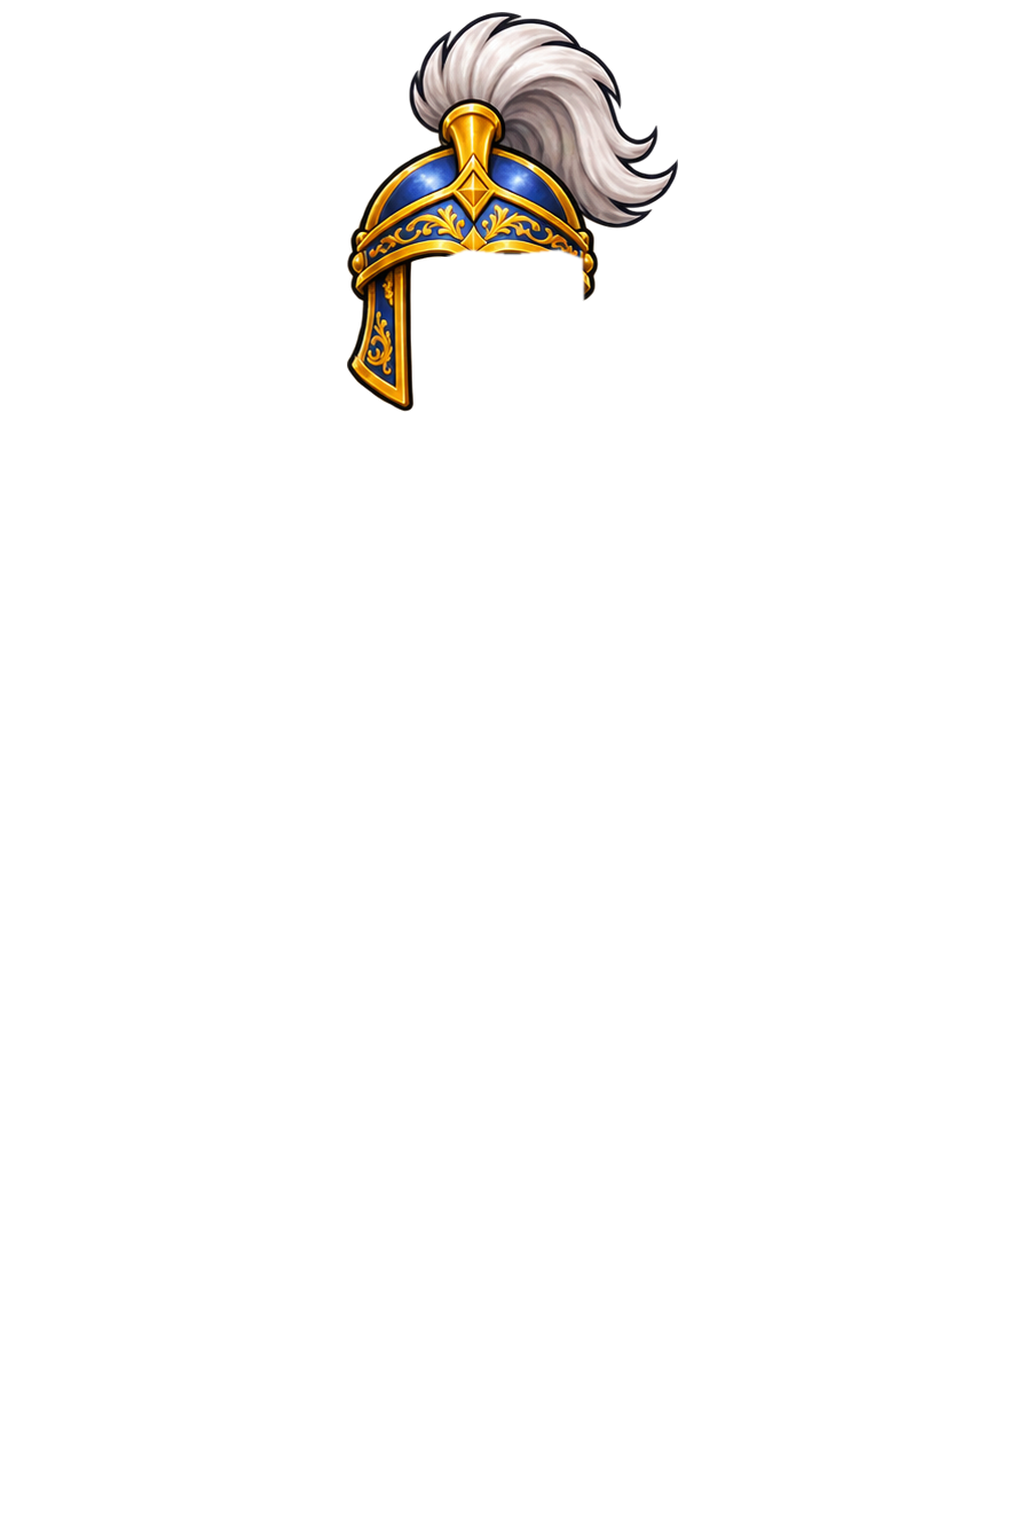
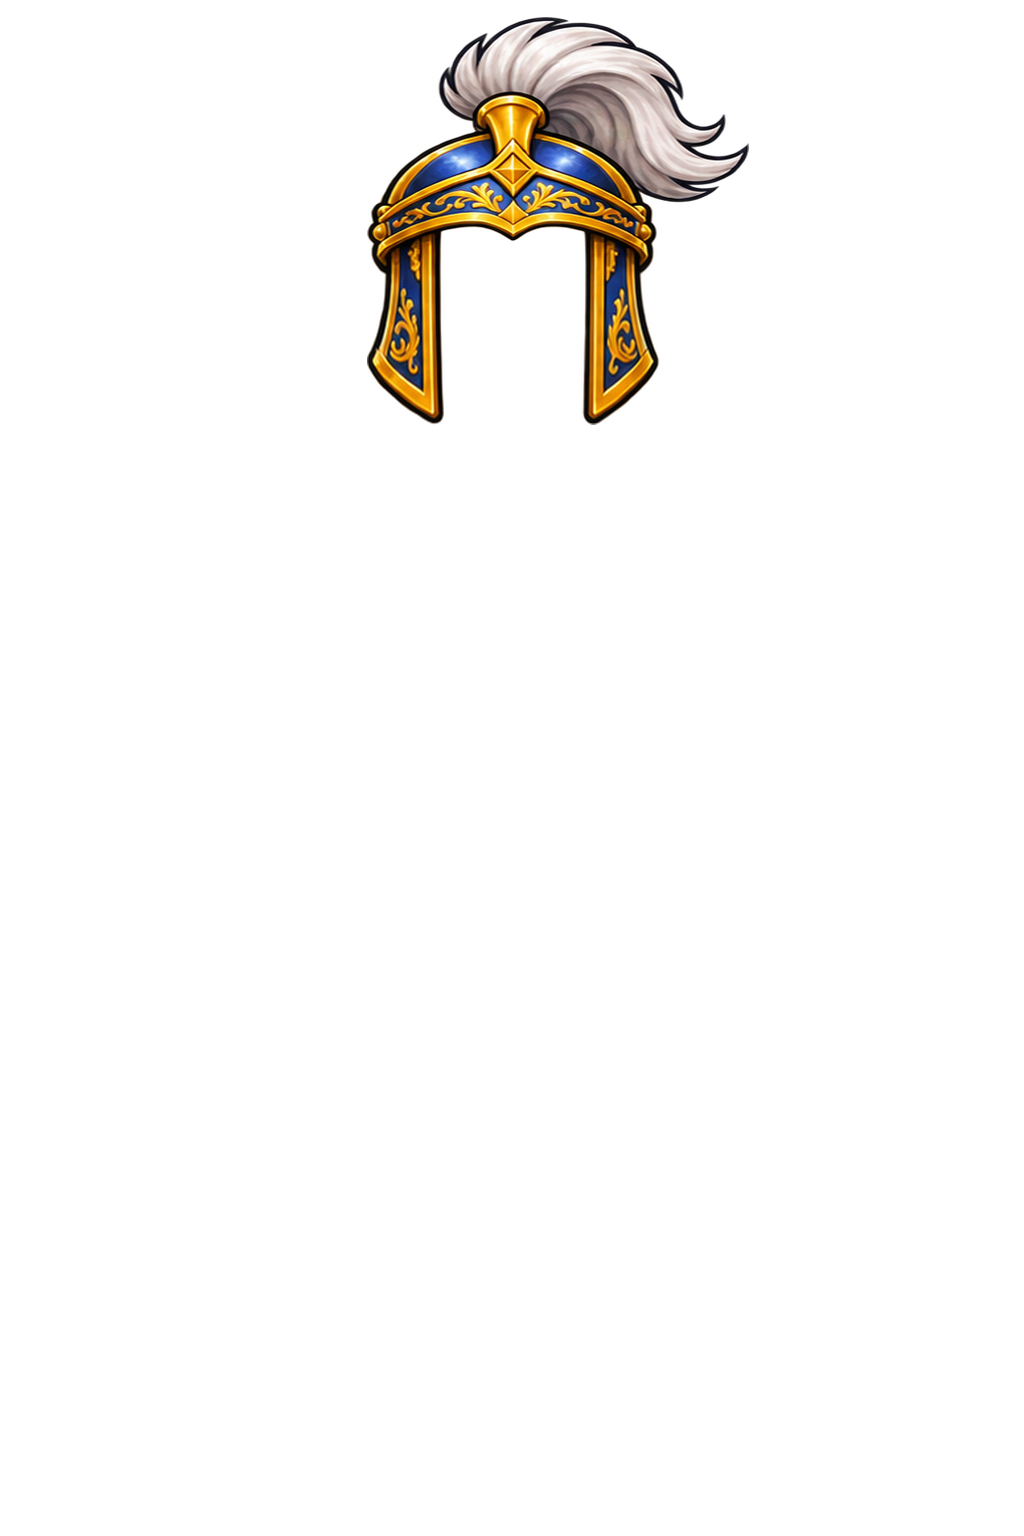
Publish arena posters and align asymmetric knight helmets

Changed region(s): [[0.3438, 0.0, 0.75, 0.2812]]

diff --git a/server/worker.js b/server/worker.js
@@ -3067,22 +3067,25 @@ async function arnTick(env){
     if(changed)await kvSet(env,arnKey(),A);
   }finally{arnBusy=0}
 }
-function arnPosts(){return [
-  {id:"arena-announce-20261126",on:true,at:Date.UTC(2026,10,26,17,15),window:2*36e5,photo:"event-assets/arena-2026-11-26.png",
-   btn:"⚔ Войти в Арену",url:PAGE+"?tower=1&arena=1",
-   chan:"⚔ СЕГОДНЯ В 20:30 — АРЕНА НА 30 МЕСТ!\n\nВ Башне открывается вечерний турнир. Первые 30, кто нажмёт «Участвовать», попадут в сетку.\n\nЕсли 30 не наберётся — старт в 20:45 с теми, кто есть. Турнир состоится в любом случае, даже если участников мало.\n\nКаждый бой — 3 раунда. Перед боем выбери стойку (Натиск / Стена / Обман) и ответь на загадку: правильный ответ даёт +25% к силе, выигранная стойка — ещё +15%. Сила карт важна, но хитрость решает.\n\n🥇 200 ⭐ + VIP 7 дней + 3 ключа + титул «Чемпион Арены»\n🥈 100 ⭐ + VIP 3 дня + 2 ключа\n🥉 50 ⭐ + 1 ключ\n🎴 4 место — ключ, 5–8 — 25 прокруток, все — 15 прокруток и осколки\n\n⏰ Набор: 20:30–20:45. Заходи в игру → Башня → Арена!",
-   dm:"⚔ Сегодня в 20:30 — АРЕНА на 30 мест!\n\nПервые 30, кто нажмёт «Участвовать», попадут в турнир. Если 30 не наберётся — старт в 20:45 с теми, кто есть. Турнир состоится в любом случае.\n\nВ каждом бою: стойка + загадка + 3 раунда. Правильный ответ даёт +25% к силе, стойка — ещё +15%.\n\n🥇 200 ⭐ + VIP 7 дней + 3 ключа\n🥈 100 ⭐ + VIP 3 дня + 2 ключа\n🥉 50 ⭐ + 1 ключ\n🎴 4 место — ключ, 5–8 — 25 прокруток, всем — 15 прокруток и осколки.\n\nОткрой игру → Башня → Арена. Набор стартует в 20:30!"},
-  {id:"arena-open-20261126",on:true,at:Date.UTC(2026,10,26,17,30),window:30*60e3,photo:"event-assets/arena-2026-11-26.png",
-   btn:"⚔ Участвовать",url:PAGE+"?tower=1&arena=1",
-   chan:"⚔ АРЕНА ОТКРЫТА! ПЕРВЫЕ 30 МЕСТ!\n\nЗайди в игру → Башня → Арена и жми «Участвовать». Набор закроется в 20:45 или когда закончатся места.\n\nЕсли 30 не наберётся — старт в 20:45 с теми, кто есть. Турнир состоится в любом случае.\n\nВ бою: стойка + загадка + 3 раунда. Побеждает не только сильнейший, но и самый хитрый.\n\n🥇 200 ⭐ + VIP 7 дней + 3 ключа\n🥈 100 ⭐ + VIP 3 дня + 2 ключа\n🥉 50 ⭐ + 1 ключ\n🎴 4 место — ключ, 5–8 — 25 прокруток, всем — 15 прокруток и осколки."}
-]}
+function arnPosts(){
+  const url="https://t.me/VoinyEpohBot?startapp=arena",btn="⚔ Участвовать";
+  const photo="event-assets/arena-2026-11-27.png";
+  return [
+    {id:"arena-20261127-1100",at:Date.UTC(2026,10,27,8),window:45*60e3,photo,btn,url,
+     chan:"⚔ ЗАПИСЬ НА АРЕНУ ОТКРЫТА\n\nВечером в Башне — турнир на 30 мест. Запишись сейчас, чтобы к началу боя состав уже был готов.\n\nНажми «Участвовать», выбери 3 карты или доверь подбор игре, затем подтверди состав. Порядок карт определяет раунды. До закрытия набора состав можно поменять.\n\n🥇 Победителю — 200 ⭐, VIP на 7 дней и 3 ключа.\n⏰ Сетка в 20:30 при 30 участниках. Иначе старт в 20:45. Время по Минску."},
+    {id:"arena-20261127-1730",at:Date.UTC(2026,10,27,14,30),window:45*60e3,photo:"event-assets/arena-2026-11-27-evening.png",btn,url,
+     chan:"🛡 ГОТОВ ЛИ ТВОЙ ОТРЯД К ВЕЧЕРНЕЙ АРЕНЕ?\n\nВыбери три карты и реши, кого поставить в первый раунд. В бою правильная загадка даст +25% к урону, а выигрышная стойка — +15%.\n\nЖми «Участвовать» и подтверди состав, если ещё есть место. В турнир попадут первые 30 участников.\n\n⏰ В 20:30 по Минску соберём сетку при 30 участниках. Иначе начнём в 20:45."},
+    {id:"arena-20261127-2020",at:Date.UTC(2026,10,27,17,20),window:10*60e3,photo:"event-assets/arena-2026-11-27-reminder.png",btn,url,
+     chan:"⏰ ДО АРЕНЫ 10 МИНУТ!\n\nЕсли уже записался, проверь, какие три карты и в каком порядке пойдут в бой. Если ещё есть свободное место, жми «Участвовать» и подтверждай отряд.\n\nВ 20:30 по Минску проверим набор. Если все 30 мест заняты, соберём сетку. Если нет, запись продолжится до 20:45.\n\n🥇 Победителю — 200 ⭐, VIP на 7 дней и 3 ключа."}
+  ];
+}
 let arnPostBusy=0;
 async function arnPostsTick(env){
   if(arnPostBusy)return;
   const now=Date.now();
   for(const P of arnPosts()){
     if(P.on===false)continue;
-    if(now<P.at||now>P.at+P.window)continue;
+    if(now<P.at||now>=P.at+P.window)continue;
     const st=await kvGet(env,"blast:"+P.id);
     if(st&&st.done&&st.ch)continue;
     arnPostBusy=1;

diff --git a/server/server.js b/server/server.js
@@ -964,22 +964,25 @@ async function arnTick(env){
     if(changed)await kvSet(env,arnKey(),A);
   }finally{arnBusy=0}
 }
-function arnPosts(){return [
-  {id:"arena-announce-20261126",on:true,at:Date.UTC(2026,10,26,17,15),window:2*36e5,photo:"event-assets/arena-2026-11-26.png",
-   btn:"⚔ Войти в Арену",url:PAGE+"?tower=1&arena=1",
-   chan:"⚔ СЕГОДНЯ В 20:30 — АРЕНА НА 30 МЕСТ!\n\nВ Башне открывается вечерний турнир. Первые 30, кто нажмёт «Участвовать», попадут в сетку.\n\nЕсли 30 не наберётся — старт в 20:45 с теми, кто есть. Турнир состоится в любом случае, даже если участников мало.\n\nКаждый бой — 3 раунда. Перед боем выбери стойку (Натиск / Стена / Обман) и ответь на загадку: правильный ответ даёт +25% к силе, выигранная стойка — ещё +15%. Сила карт важна, но хитрость решает.\n\n🥇 200 ⭐ + VIP 7 дней + 3 ключа + титул «Чемпион Арены»\n🥈 100 ⭐ + VIP 3 дня + 2 ключа\n🥉 50 ⭐ + 1 ключ\n🎴 4 место — ключ, 5–8 — 25 прокруток, все — 15 прокруток и осколки\n\n⏰ Набор: 20:30–20:45. Заходи в игру → Башня → Арена!",
-   dm:"⚔ Сегодня в 20:30 — АРЕНА на 30 мест!\n\nПервые 30, кто нажмёт «Участвовать», попадут в турнир. Если 30 не наберётся — старт в 20:45 с теми, кто есть. Турнир состоится в любом случае.\n\nВ каждом бою: стойка + загадка + 3 раунда. Правильный ответ даёт +25% к силе, стойка — ещё +15%.\n\n🥇 200 ⭐ + VIP 7 дней + 3 ключа\n🥈 100 ⭐ + VIP 3 дня + 2 ключа\n🥉 50 ⭐ + 1 ключ\n🎴 4 место — ключ, 5–8 — 25 прокруток, всем — 15 прокруток и осколки.\n\nОткрой игру → Башня → Арена. Набор стартует в 20:30!"},
-  {id:"arena-open-20261126",on:true,at:Date.UTC(2026,10,26,17,30),window:30*60e3,photo:"event-assets/arena-2026-11-26.png",
-   btn:"⚔ Участвовать",url:PAGE+"?tower=1&arena=1",
-   chan:"⚔ АРЕНА ОТКРЫТА! ПЕРВЫЕ 30 МЕСТ!\n\nЗайди в игру → Башня → Арена и жми «Участвовать». Набор закроется в 20:45 или когда закончатся места.\n\nЕсли 30 не наберётся — старт в 20:45 с теми, кто есть. Турнир состоится в любом случае.\n\nВ бою: стойка + загадка + 3 раунда. Побеждает не только сильнейший, но и самый хитрый.\n\n🥇 200 ⭐ + VIP 7 дней + 3 ключа\n🥈 100 ⭐ + VIP 3 дня + 2 ключа\n🥉 50 ⭐ + 1 ключ\n🎴 4 место — ключ, 5–8 — 25 прокруток, всем — 15 прокруток и осколки."}
-]}
+function arnPosts(){
+  const url="https://t.me/VoinyEpohBot?startapp=arena",btn="⚔ Участвовать";
+  const photo="event-assets/arena-2026-11-27.png";
+  return [
+    {id:"arena-20261127-1100",at:Date.UTC(2026,10,27,8),window:45*60e3,photo,btn,url,
+     chan:"⚔ ЗАПИСЬ НА АРЕНУ ОТКРЫТА\n\nВечером в Башне — турнир на 30 мест. Запишись сейчас, чтобы к началу боя состав уже был готов.\n\nНажми «Участвовать», выбери 3 карты или доверь подбор игре, затем подтверди состав. Порядок карт определяет раунды. До закрытия набора состав можно поменять.\n\n🥇 Победителю — 200 ⭐, VIP на 7 дней и 3 ключа.\n⏰ Сетка в 20:30 при 30 участниках. Иначе старт в 20:45. Время по Минску."},
+    {id:"arena-20261127-1730",at:Date.UTC(2026,10,27,14,30),window:45*60e3,photo:"event-assets/arena-2026-11-27-evening.png",btn,url,
+     chan:"🛡 ГОТОВ ЛИ ТВОЙ ОТРЯД К ВЕЧЕРНЕЙ АРЕНЕ?\n\nВыбери три карты и реши, кого поставить в первый раунд. В бою правильная загадка даст +25% к урону, а выигрышная стойка — +15%.\n\nЖми «Участвовать» и подтверди состав, если ещё есть место. В турнир попадут первые 30 участников.\n\n⏰ В 20:30 по Минску соберём сетку при 30 участниках. Иначе начнём в 20:45."},
+    {id:"arena-20261127-2020",at:Date.UTC(2026,10,27,17,20),window:10*60e3,photo:"event-assets/arena-2026-11-27-reminder.png",btn,url,
+     chan:"⏰ ДО АРЕНЫ 10 МИНУТ!\n\nЕсли уже записался, проверь, какие три карты и в каком порядке пойдут в бой. Если ещё есть свободное место, жми «Участвовать» и подтверждай отряд.\n\nВ 20:30 по Минску проверим набор. Если все 30 мест заняты, соберём сетку. Если нет, запись продолжится до 20:45.\n\n🥇 Победителю — 200 ⭐, VIP на 7 дней и 3 ключа."}
+  ];
+}
 let arnPostBusy=0;
 async function arnPostsTick(env){
   if(arnPostBusy)return;
   const now=Date.now();
   for(const P of arnPosts()){
     if(P.on===false)continue;
-    if(now<P.at||now>P.at+P.window)continue;
+    if(now<P.at||now>=P.at+P.window)continue;
     const st=await kvGet(env,"blast:"+P.id);
     if(st&&st.done&&st.ch)continue;
     arnPostBusy=1;

diff --git a/tower.js b/tower.js
@@ -144,9 +144,9 @@
     return el;
   }
 
-  function twOpen() {
+  function twOpen(tab) {
     if (!S || !S.tower) { toast("Башня ещё не подключена. Обнови игру"); return; }
-    const el = ensure(); el.hidden = false; twTab = "main"; twRes = null; twTop = null; twTourData = null; twArena = null; twArenaRoster = null; twArenaSel = { id: "", st: null, q: null }; twRender();
+    const el = ensure(); el.hidden = false; twTab = tab === "arena" ? "arena" : "main"; twRes = null; twTop = null; twTourData = null; twArena = null; twArenaRoster = null; twArenaSel = { id: "", st: null, q: null }; twRender();
     try { hap("light"); } catch (e) {}
   }
   function twClose() { const el = $("tower"); if (el) el.hidden = true; twStopTour(); twStopArena(); }
@@ -665,15 +665,4 @@
       return _mg.apply(this, arguments);
     };
   }
-  // deep link ?tower=1 / ?tower=1&arena=1
-  try {
-    const q = new URLSearchParams(location.search);
-    if (q.has("tower") || location.hash === "#tower") {
-      setTimeout(() => {
-        if (!window.S) return;
-        twOpen();
-        if (q.has("arena")) { twTab = "arena"; twArena = null; twRender(); }
-      }, 900);
-    }
-  } catch (e) {}
 })();

diff --git a/index.html b/index.html
@@ -1,6 +1,6 @@
 <!doctype html>
 <html lang="ru">
-<head><meta name="app-ver" content="23f96e18f7">
+<head><meta name="app-ver" content="e59fedaf8e">
 <meta charset="utf-8">
 <meta http-equiv="Cache-Control" content="no-cache">
 <meta name="viewport" content="width=device-width,initial-scale=1,maximum-scale=1,user-scalable=no,viewport-fit=cover">
@@ -364,7 +364,7 @@
 <div class="toast" id="toast"></div>
 <div class="modal" id="modal" hidden><div class="sheet" id="msheet"></div></div>
 <script src="rules.js?v=940721ea"></script>
-<script src="game.js?v=d5603017"></script>
+<script src="game.js?v=88f09aa3"></script>
 <script src="wow.js?v=fe33d94c"></script>
 <script src="event.js?v=ae9f95e2" async></script>
 <script src="menu.js?v=414a6fde"></script>
@@ -379,8 +379,8 @@
 <script src="gems.js?v=52383795"></script>
 <script src="community.js?v=a4aff505"></script>
 <script src="tower-rules.js?v=77aa32fa"></script>
-<script src="tower.js?v=d9b330e0"></script>
-<script src="knight.js?v=2faffe98"></script>
+<script src="tower.js?v=e141dd56"></script>
+<script src="knight.js?v=499c4ed8"></script>
 <script src="contest.js?v=ed543d97"></script>
 </body>
 </html>

diff --git a/knight.js b/knight.js
@@ -344,7 +344,7 @@ function knDrawR(eq,opt){const u=opt.u||"k",gA=opt.gA||{t:"none"},gW=opt.gW||{t:
  if(SLK.every(k=>eq[k]===eq.chest))o+=`<image href="${artUrl(eq.chest)}" ${KN_ART_FRAME}/>`;
  else for(const slot of KN_LAYER_ORDER){
   const file=slot==="base_body"?slot:`${eq[slot==="cape"?"chest":slot]}_${slot}`;
-  o+=`<image href="${KN_ART}layers/${file}.png?v=3" ${KN_ART_FRAME}/>`;
+  o+=`<image href="${KN_ART}layers/${file}.png?v=${slot==="helm"?4:3}" ${KN_ART_FRAME}/>`;
  }
  if(gA.t&&gA.t!=="none")o+=`<g clip-path="url(#ct${u})" opacity=".85"><image href="${artUrl("gr_"+gA.t)}" x="158" y="200" width="104" height="104" filter="url(#gt${u})"/></g>`;
  if(gW.t&&gW.t!=="none")o+=`<g clip-path="url(#cb${u})" opacity=".85"><image href="${artUrl("gr_"+gW.t)}" x="160" y="400" width="100" height="100" filter="url(#gw${u})"/><image href="${artUrl("gr_"+gW.t)}" x="160" y="490" width="100" height="100" filter="url(#gw${u})"/></g>`;
